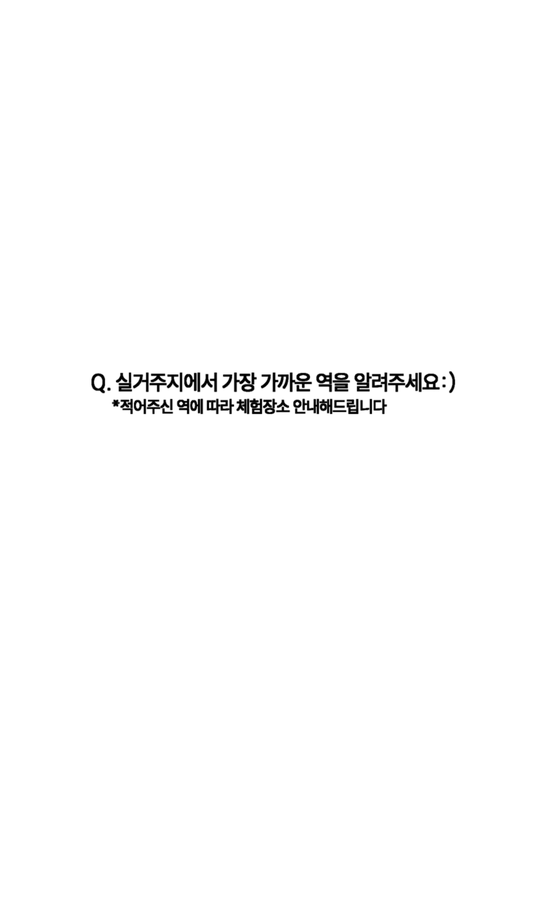
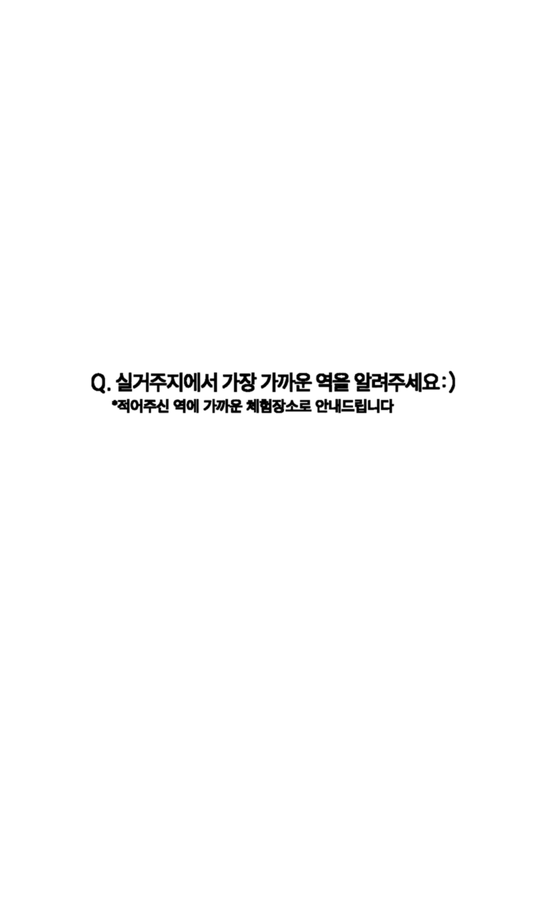
Add files via upload

Changed region(s): [[0.1778, 0.4044, 0.8, 0.4667]]

diff --git a/index.html b/index.html
@@ -98,6 +98,18 @@
   .blk .pz-dot { position: absolute; width: calc(var(--u) * 11); height: calc(var(--u) * 11); border-radius: 50%; border: 1.5px solid #f4f1ec; background: rgba(0,0,0,.2); box-sizing: border-box; }
   .blk .pz-chip { position: absolute; right: 0; top: 0; white-space: nowrap; font-family: 'Pretendard', var(--font); font-weight: 500; font-size: calc(var(--u) * 10.5);
     padding: calc(var(--u) * 5) calc(var(--u) * 10); border-radius: 999px; border: 1px solid rgba(255,255,255,.45); color: rgba(255,255,255,.85); }
+  /* 페이지2 이벤트 안내(시안5) */
+  .blk [class^="pz-ev-"] { font-family: 'Pretendard', var(--font); }
+  .blk .pz-ev-t { font-family: 'Pretendard', var(--font); font-weight: 700; font-size: calc(var(--u) * 17); line-height: 1.25; letter-spacing: -.01em; }
+  .blk .pz-ev-s { font-size: calc(var(--u) * 11.5); color: rgba(244,241,236,.72); margin-top: calc(var(--u) * 5); line-height: 1.5; }
+  .blk .pz-ev-elig { font-weight: 700; font-size: calc(var(--u) * 13); margin-top: calc(var(--u) * 16); }
+  .blk .pz-ev-k { font-weight: 700; font-size: calc(var(--u) * 12.5); margin-top: calc(var(--u) * 12); }
+  .blk .pz-ev-v { font-size: calc(var(--u) * 11.5); color: rgba(244,241,236,.74); margin-top: calc(var(--u) * 2); line-height: 1.45; }
+  .blk .pz-ev-dm { font-size: calc(var(--u) * 11.5); margin-top: calc(var(--u) * 14); color: rgba(244,241,236,.86); }
+  .blk .pz-ev-ic { font-size: calc(var(--u) * 15.5); vertical-align: -.12em; margin-right: calc(var(--u) * 1); }
+  .blk .pz-ev-lab { font-size: calc(var(--u) * 10); color: rgba(244,241,236,.55); letter-spacing: .02em; margin-bottom: calc(var(--u) * 6); }
+  .blk .pz-thumbs { display: flex; gap: calc(var(--u) * 7); }
+  .blk .pz-thumbs img { width: calc(var(--u) * 152); height: calc(var(--u) * 80); object-fit: cover; border-radius: calc(var(--u) * 8); display: block; box-shadow: 0 calc(var(--u) * 6) calc(var(--u) * 16) rgba(0,0,0,.5); }
 
   /* 원본 입력칸 위에 얹는 실제 입력창 */
   .field {
@@ -293,19 +305,21 @@ const STEPS = [
   // 첫 화면: '신청하기'도 '다음'과 같은 미니멀 스모어 버튼(96×36px@390), 원래 버튼 중심(y 84.5%)에.
   // 이미지는 p-1n.jpg — 원본 p-1.jpg에서 그려진 '신청하기' 버튼만 지우고 원래 배경 복원
   { id: 'intro', img: 'pages/p-1n.jpg',
-    zones: [{ ...NEXT_BTN, text: '신청하기', cy: 84.5, w: 150 }] },   // 가로만 넓게(150px@390), 높이·글씨는 '다음'과 같음
+    zones: [{ ...NEXT_BTN, text: '내 무드 찾기', cy: 84.5, w: 175 }] },   // 가로만 넓게(175px@390), 높이·글씨는 '다음'과 같음
 
   // 프로세스 설명 (인트로 다음)
   // 프로세스: 시안 2-2(세로 타임라인). 배경판(bg.jpg) 위에 HTML 블록으로 구성, 사진 4장은 원본 process.jpg에서 잘라낸 proc-*.jpg
   // blocks: box = [x, y, 폭, 높이] (폰 390×650px 기준) — 넘어갈 때 블록마다 한 조각으로 움직임
   { id: 'process', img: 'pages/bg.jpg',
+    // 페이지2: 이벤트 안내 텍스트(시안5) + 무드 스타일링 사진 썸네일 2장
     blocks: [
-      { box: [28, 62, 334, 56], html: `<div class="pz-title">Image consulting<br>process</div>` },
-      { box: [27, 146, 13, 342], html: `<div class="pz-line" style="left:calc(var(--u)*6);top:calc(var(--u)*12);height:calc(var(--u)*330)"></div>`
-          + `<div class="pz-dot" style="left:calc(var(--u)*1);top:calc(var(--u)*0.5)"></div><div class="pz-dot" style="left:calc(var(--u)*1);top:calc(var(--u)*175.5)"></div>` },
-      { box: [52, 142, 310, 154], html: `<div class="pz-h">Mood Reading</div><div class="pz-k">내 고유의 분위기를 읽어드려요</div>` + DIPTYCH('proc-s1a', 'proc-s1b') },
-      { box: [52, 317, 310, 154], html: `<div class="pz-h">Mood Styling</div><div class="pz-k">퍼스널컬러 &amp; 골격진단 중 택1</div>` + DIPTYCH('proc-s2a', 'proc-s2b') },
-      { box: [262, 487, 100, 22], html: `<div class="pz-chip">+ 결과지 PDF</div>` },
+      { box: [50, 160, 312, 200], html: `<div class="pz-ev-t">Free Event : Draw your own Mood</div>`
+          + `<div class="pz-ev-s">당신만의 무드를 찾길 바라며 준비한 NUA 이벤트 ᵕ̈</div>`
+          + `<div class="pz-ev-elig">ᵕ̈ 성별 무관 / 만 18세 이상 ᵕ̈</div>`
+          + `<div class="pz-ev-k">➶ 모집 인원 및 발표</div><div class="pz-ev-v">모집 기간 중 상시 추첨하여 개별 연락</div>`
+          + `<div class="pz-ev-k">➶ 체험 혜택</div><div class="pz-ev-v">전 프로그램 무료 제공</div>`
+          + `<div class="pz-ev-dm"><span class="pz-ev-ic">✉</span> 문의 : DM (@nua.look)</div>` },
+      { box: [50, 386, 312, 90], html: `<div class="pz-thumbs"><img src="pages/proc-s2a.jpg" alt=""><img src="pages/proc-s2b.jpg" alt=""></div>` },
     ],
     zones: [{ ...NEXT_BTN }] },
 
@@ -358,7 +372,7 @@ const STEPS = [
     ] },
 
   { id: 'phone', img: 'pages/p-8q.jpg', consent: true,
-    note: { text: '🔒 예약 안내용으로만 · 스팸 0건 · 24시간 뒤 삭제', rect: [4, 54.6, 92, 3.2] },
+    note: { text: '🔒 예약 안내용으로만 · 24시간 뒤 삭제', rect: [4, 54.6, 92, 3.2] },
     zones: [
       // 연락처 칸은 질문 문장 폭(26.3~76.0%)에 맞춰 양옆 1%씩만 더 넓게
       { kind: 'field', glass: true, col: '연락처', ph: '010-0000-0000', rect: [25.3, 48.41, 51.72, 6.15], type: 'tel', mode: 'numeric', format: 'phone', pattern: '[0-9]*', autocomplete: 'tel' },
